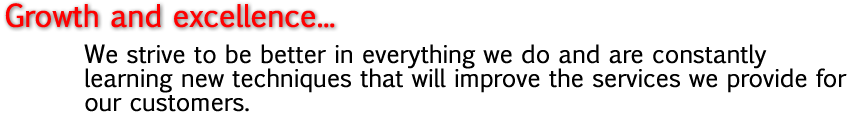
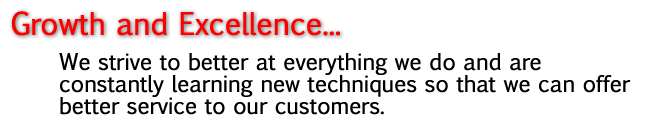
added new home page images

Changed region(s): [[0.0923, 0.3387, 0.9846, 0.9194], [0.0, 0.0242, 0.5231, 0.3145]]

diff --git a/app/assets/stylesheets/application.css b/app/assets/stylesheets/application.css
@@ -32,29 +32,35 @@ body {
 
 /* Main Page Styling */
 .main {
-	background-image: url("main_background.png");
+	background-image: url("home.png");
 	background-repeat: no-repeat;
-	margin-left: 100px;
+	margin-left: 125px;
 	padding-top: 0px;
 	width: 1100px;
 	height: 600px;
 }
 
 div#one {
-	padding-top: 65px;
-	padding-left: 90px;
+	padding-top: 45px;
+	padding-left: 315px;
 	display: none;
 }
 
 div#two {
-	padding-top: 25px;
-	padding-left: 90px;
+	padding-top: 55px;
+	padding-left: 315px;
 	display: none;
 }
 
 div#three {
-	padding-top: 25px;
-	padding-left: 90px;
+	padding-top: 55px;
+	padding-left: 315px;
+	display: none;
+}
+
+div#four {
+	padding-top: 10px;
+	padding-left: 150px;
 	display: none;
 }
 

diff --git a/app/assets/javascripts/animation.js b/app/assets/javascripts/animation.js
@@ -1,8 +1,8 @@
 // animations scripts for hiding and unhiding, fading, etc.
 $(document).ready(function() {
-	$("#one").fadeIn(1500);
+	$("#one").fadeIn(1000);
 	$("#two").fadeIn(3000);
-	$("#three").fadeIn(4000);
+	$("#three").fadeIn(5000);
 });
 
 
